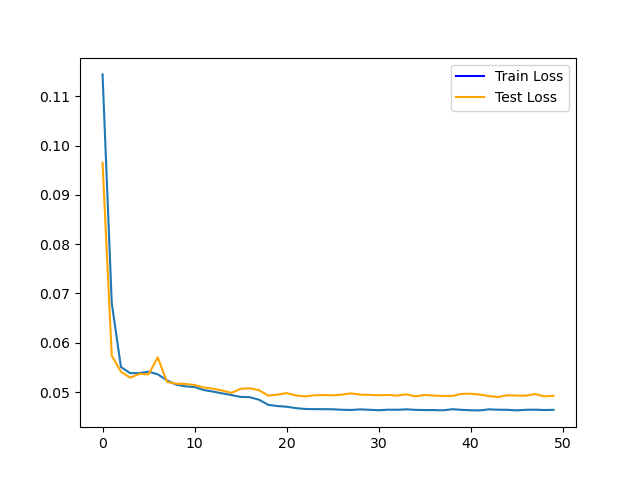
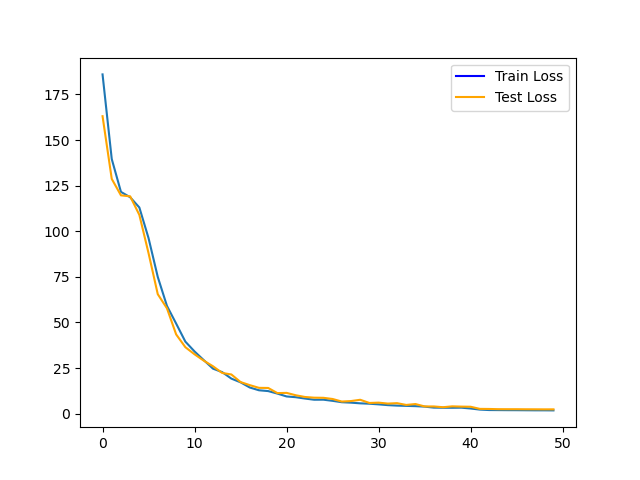
Tentative working Z-score normalization

diff --git a/dynamicspredict.py b/dynamicspredict.py
@@ -10,10 +10,12 @@ import numpy as np
 import matplotlib.pyplot as plt
 import matplotlib.lines as mlines
 from collections import OrderedDict
+import math
 
 
 # DEPRECIATED NORMALIZATION
-"""def normalize_data(norm_tensor, col, tensor_max, tensor_min):
+"""
+def normalize_data(norm_tensor, col, tensor_max, tensor_min):
     sizetuple = norm_tensor.size()
     numrows = sizetuple[0]
     for i in range(0, numrows):
@@ -34,7 +36,8 @@ def denormalize_data(norm_tensor, col, tensor_max, tensor_min):
         norm_tensor[i][col] *= (tensor_max-tensor_min)
         norm_tensor[i][col] /= 2
         norm_tensor[i][col] += tensor_min
-    return norm_tensor"""
+    return norm_tensor
+"""
 
 
 # remove all outliers greater than 5 standard deviations away from center
@@ -50,37 +53,107 @@ def remove_outliers(data_tensor, target_tensor):
         for rownum in range(0, numrows):
             temp_vals[rownum] = data_tensor[rownum][colnum]
 
-        col_tensor = torch.from_numpy(temp_vals)
-        col_tensor = torch.floatTensor(col_tensor)
+        col_tensor = torch.from_numpy(temp_vals).float()
         # get mean and std of data tensor
         col_mean = torch.mean(col_tensor)
         col_std = torch.std(col_tensor)
         offset = col_std * 5
+        # print("column mean:", col_mean)
+        # print("column std:", col_std)
+        # print("outlier offset:", offset)
 
         # go through and identify outliers
         for rownum in range(0, numrows):
             element = data_tensor[rownum][colnum]
             if element <= col_mean-offset or element >= col_mean+offset:
                 if not rownum in rows_to_elim:
+                    print("eliminating row:", rownum)
+                    # print(data_tensor[rownum])
                     rows_to_elim.append(rownum)
+        print()
 
     # eliminate rows from data and target here
-    # convert to np, delete all relevant rows, then return to tensor of type floatTensor
+    # convert to np, delete all relevant rows, then return to tensor of type FloatTensor
     np_data_tensor = data_tensor.numpy()
     np_target_tensor = target_tensor.numpy()
     np_data_tensor = np.delete(np_data_tensor, rows_to_elim, 0)
     np_target_tensor = np.delete(np_target_tensor, rows_to_elim, 0)
 
-    data_tensor = np_data_tensor.from_numpy()
-    target_tensor =  np_target_tensor.from_numpy()
+    data_tensor = torch.from_numpy(np_data_tensor)
+    target_tensor =  torch.from_numpy(np_target_tensor)
 
     data_tensor, target_tensor = data_tensor.type(torch.FloatTensor), target_tensor.type(torch.FloatTensor)
+
+    print("normalized tensors:")
+    print(data_tensor)
+    print(target_tensor)
 
     return data_tensor, target_tensor
 
 
-def gaussian(data_tensor, target_tensor):
-    # thing
+col_mean_data=[]
+col_std_data=[]
+col_mean_tgt=[]
+col_std_tgt=[]
+
+
+# z_score normalization on data & targets
+def z_score(data_tensor, target_tensor):
+    # z-score on data
+    print("data:")
+    numcols = data_tensor.size()[1]
+    numrows = data_tensor.size()[0]
+    for colnum in range(0, numcols):
+        temp_vals = np.empty(numrows)
+        # generate temp column tensor
+        for rownum in range(0, numrows):
+            temp_vals[rownum] = data_tensor[rownum][colnum]
+
+        col_tensor = torch.from_numpy(temp_vals).float()
+        # get mean and std of data tensor
+        col_mean = torch.mean(col_tensor)
+        col_std = torch.std(col_tensor)
+        col_mean_data.append(col_mean)
+        col_std_data.append(col_std)
+        print("column mean:", col_mean)
+        print("column std:", col_std)
+
+        # go through and identify outliers
+        for rownum in range(0, numrows):
+            data_tensor[rownum][colnum] -= col_mean
+            data_tensor[rownum][colnum] /= col_std
+    print()
+    # z-score norm on targets
+    print("targets:")
+    numcols = target_tensor.size()[1]
+    numrows = target_tensor.size()[0]
+    for colnum in range(0, numcols):
+        temp_vals = np.empty(numrows)
+        # generate temp column tensor
+        for rownum in range(0, numrows):
+            temp_vals[rownum] = target_tensor[rownum][colnum]
+
+        col_tensor = torch.from_numpy(temp_vals).float()
+        # get mean and std of data tensor
+        tgt_mean = torch.mean(col_tensor)
+        tgt_std = torch.std(col_tensor)
+        col_mean_tgt.append(tgt_mean)
+        col_std_tgt.append(tgt_std)
+        print("column mean:", tgt_mean)
+        print("column std:", tgt_std)
+
+        # go through and identify outliers
+        for rownum in range(0, numrows):
+            target_tensor[rownum] -= tgt_mean
+            target_tensor[rownum] /= tgt_std
+
+    print("final normalized targets:")
+    print(data_tensor)
+    print(target_tensor)
+    return data_tensor, target_tensor
+
+
+def denormalize_data(data_tensor, target_tensor):
     return
 
 
@@ -98,11 +171,11 @@ def get_col_minmax(tensor, col):
     # print("column:", col, "column max:", data_max, "column min: ", data_min)
     return data_max, data_min
 
-
 diffs = []
 
 
 # compare tensors together, return number correct (used in compfunc below)
+# TODO: Redo this
 def comp_tensor(predict, target, diffpercent):
     correct = 0
     num = torch.numel(predict)
@@ -122,6 +195,7 @@ def comp_tensor(predict, target, diffpercent):
 
 
 # compare two tensors for validation
+# TODO: Redo this
 def compfunc(predict, target, diffpercent):
     correct = 0
     predict_copy = predict.numpy()
@@ -159,8 +233,12 @@ class simdata(Dataset):
         # print(deltas.size())
         # print(data.size())
 
+        data, targets = remove_outliers(data, targets)
+        data, targets = z_score(data, targets)
+
         # DEPRECIATED CODE
-        """numcols = data.size()[1]
+        """
+        numcols = data.size()[1]
         for column in range(0, numcols):
             data_max, data_min = get_col_minmax(data, column)
             data = normalize_data(data, column, data_max, data_min)
@@ -169,10 +247,8 @@ class simdata(Dataset):
         for column in range(0, numcols):
             data_max, data_min = get_col_minmax(targets, column)
             delta_col_minmax.append((data_max, data_min))
-            targets = normalize_data(targets, column, data_max, data_min)"""
-
-        data, targets = remove_outliers(data, targets)
-        data, targets = gaussian(data, targets)
+            targets = normalize_data(targets, column, data_max, data_min)
+        """
 
         self.data = []
         for i in range(0, len(data)):
@@ -243,7 +319,9 @@ lr = 0.05
 dataset = simdata(root_dir='./data/simdata')
 print("dataset length:")
 print(len(dataset))
-train_set, test_set = random_split(dataset, [int(split*len(dataset)), int((1-split)*len(dataset))])
+print(math.floor(split*len(dataset)))
+print(math.ceil((1-split)*len(dataset)))
+train_set, test_set = random_split(dataset, [math.floor(split*len(dataset)), math.ceil((1-split)*len(dataset))])
 print("train_set length:")
 print(len(train_set))
 print("test_set length:")
